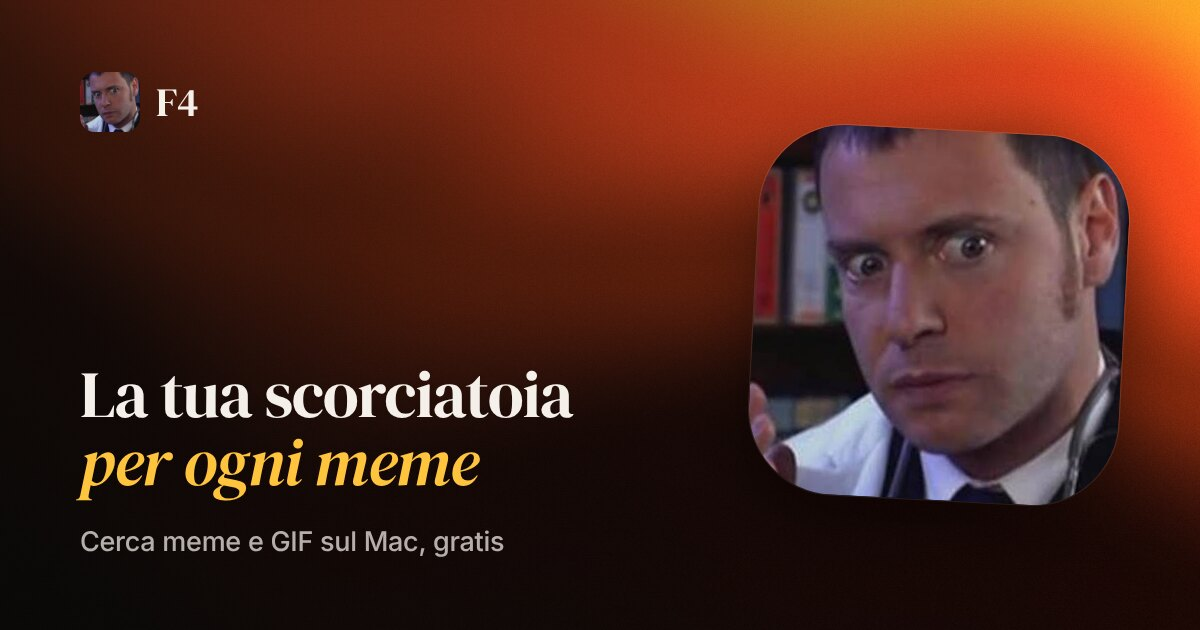
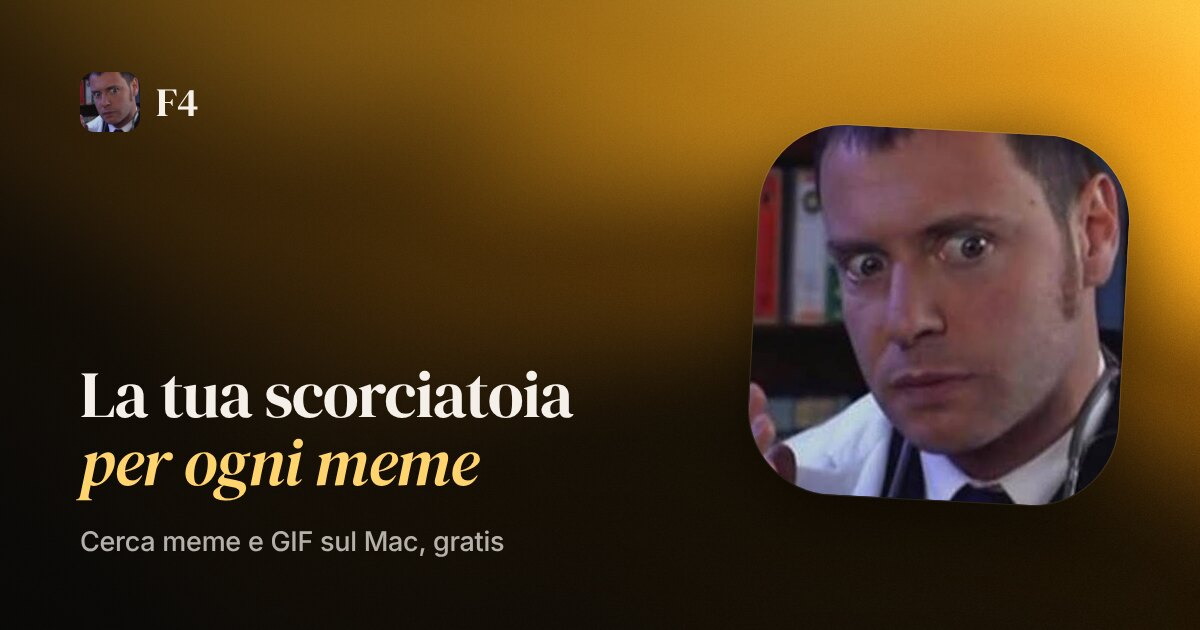
feat(site): use f4's yellow in the social card gradient
Claude-Session: https://claude.ai/code/session_01NzgfqP2ZHRiEdnMaEspfQM

Changed region(s): [[0.0617, 0.0, 1.0, 0.7238], [0.0617, 0.6937, 0.4008, 0.7841]]

diff --git a/scripts/og/og.html b/scripts/og/og.html
@@ -16,7 +16,7 @@
   .brand { display: flex; align-items: center; gap: 16px; font-family: "DM Serif Display", serif; font-weight: 400; font-size: 40px; letter-spacing: -0.01em; }
   .brand img { width: 60px; height: 60px; border-radius: 15px; object-fit: cover; }
   h1 { margin: auto 0 0; font-family: "DM Serif Display", serif; font-weight: 400; font-size: 66px; line-height: 1.04; letter-spacing: -0.02em; }
-  h1 span { display: block; font-style: italic; color: #ffc43d; }
+  h1 span { display: block; font-style: italic; color: #ffd36e; }
   p { margin: 28px 0 0; font-weight: 500; font-size: 27px; color: rgb(244 239 233 / 72%); letter-spacing: -0.01em; }
   .face { position: absolute; right: 76px; top: 50%; width: 370px; height: 370px; transform: translateY(-50%) rotate(3deg);
           border-radius: 86px; overflow: hidden; box-shadow: 0 30px 80px rgb(0 0 0 / 45%), 0 0 0 1px rgb(255 255 255 / 14%); }
@@ -25,7 +25,7 @@
 </head>
 <body>
 <div id="card">
-  <div class="grainient" data-grainient data-colors="#0a0908,#1c0805,#8a2a0c,#ff4d1f,#ffa726" data-angle="20" data-speed="0.8" data-flow="0.9" data-silk="0.3" data-grain-amount="0.03" data-dpr="1"><canvas></canvas></div>
+  <div class="grainient" data-grainient data-colors="#0a0908,#1f1404,#7a4a06,#ffab1a,#ffc43d" data-angle="20" data-speed="0.8" data-flow="0.9" data-silk="0.3" data-grain-amount="0.03" data-dpr="1"><canvas></canvas></div>
   <div class="shade"></div>
   <div class="copy">
     <div class="brand"><img src="../../Resources/logo/logo.png" alt=""> F4</div>
